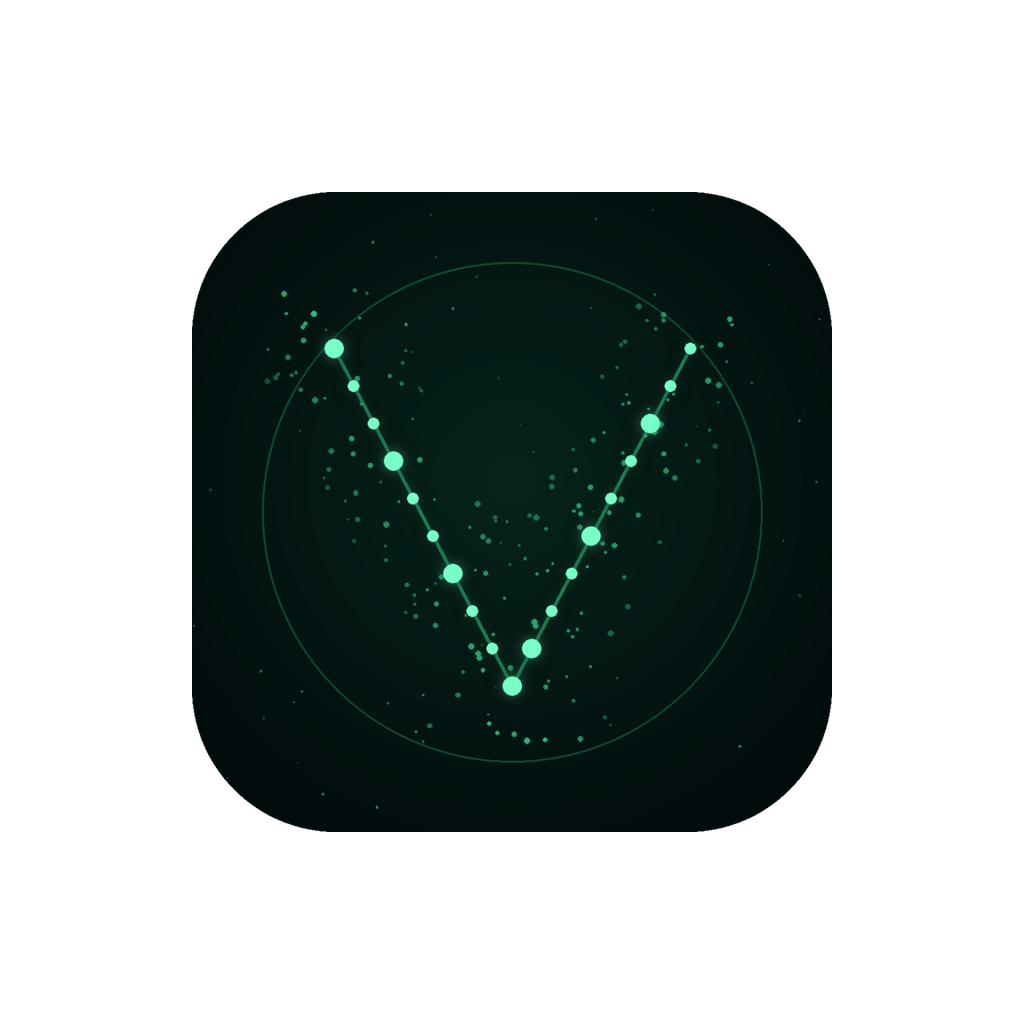
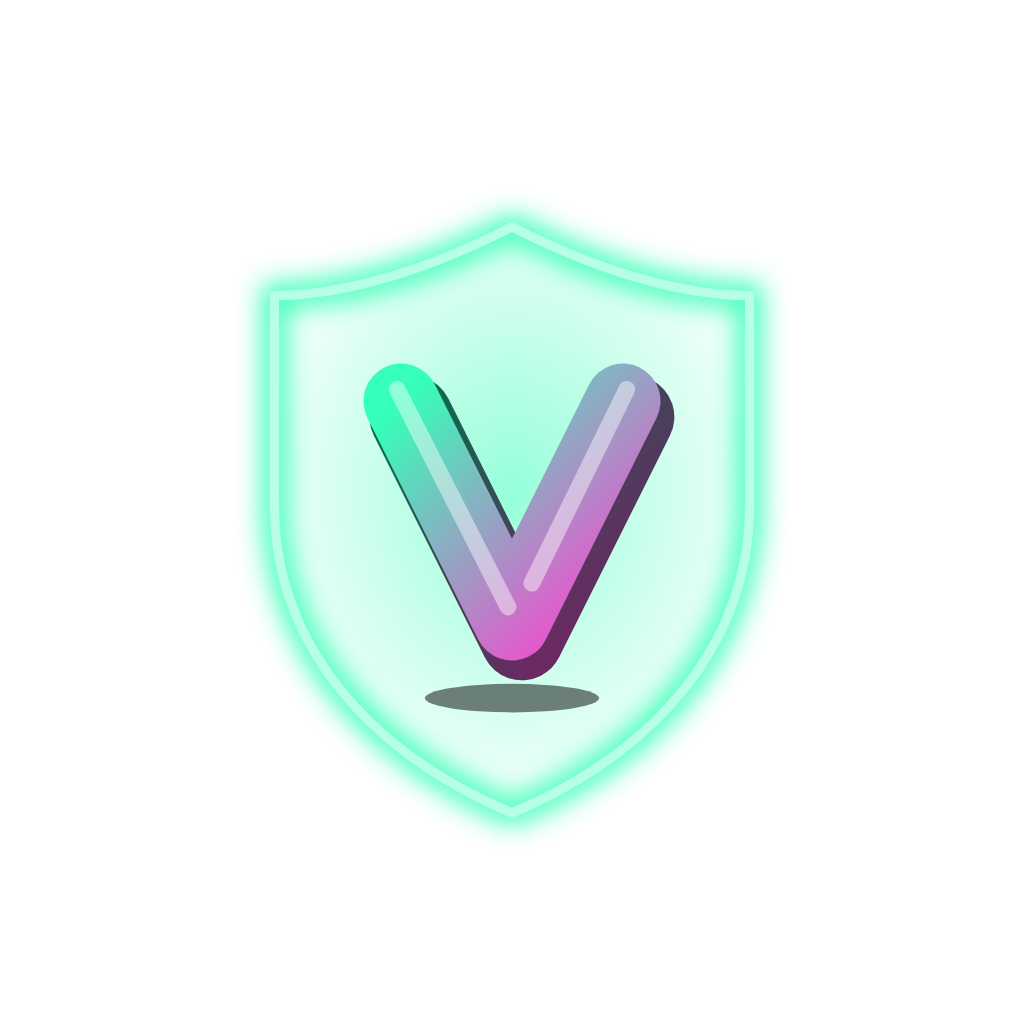
Vindex: ícone com V 3D e escudo de luz (app e topo iguais)
Claude-Session: https://claude.ai/code/session_01VdYvMQanQ6NP1Q1LpvEuDQ

diff --git a/app/src/logo.tsx b/app/src/logo.tsx
@@ -1,14 +1,14 @@
 import { useId } from "react";
 
 /**
- * O V do Vindex em 3D, como o orbe da Vênus: um tubo com luz e sombra, brilho atrás e uma pulsação lenta, como se estivesse vivo.
+ * O V do Vindex em 3D com um escudo de luz por trás (o mesmo desenho do ícone do app), como o orbe da Vênus: um tubo com luz e sombra, brilho atrás e uma pulsação lenta, como se estivesse vivo.
  * Acompanha a cor do app (--color-neon e --color-magenta). Quem pede menos movimento no aparelho recebe o V parado.
  */
 export function LogoVivo({ tam = 40, className = "" }: { tam?: number; className?: string }) {
   const id = useId().replace(/:/g, "");
   return (
-    <span className={`logo-vivo inline-block flex-none ${className}`} style={{ width: tam, height: tam }} role="img" aria-label="Vindex">
-      <svg viewBox="0 0 100 100" width={tam} height={tam} overflow="visible">
+    <span className={`logo-vivo inline-block flex-none ${className}`} style={{ width: tam * 124 / 152, height: tam }} role="img" aria-label="Vindex">
+      <svg viewBox="-12 -26 124 152" width={tam * 124 / 152} height={tam} overflow="visible">
         <defs>
           <linearGradient id={`f${id}`} x1="0" y1="0" x2="1" y2="1">
             <stop offset="0" stopColor="var(--color-neon)" />
@@ -23,7 +23,12 @@ export function LogoVivo({ tam = 40, className = "" }: { tam?: number; className
             <stop offset="1" stopColor="var(--color-neon)" stopOpacity="0" />
           </radialGradient>
         </defs>
-        <circle className="logo-vivo-brilho" cx="50" cy="48" r="50" fill={`url(#g${id})`} />
+        <circle className="logo-vivo-brilho" cx="50" cy="50" r="62" fill={`url(#g${id})`} />
+        {/* escudo de luz por trás do V: remete a proteção */}
+        <g fill="none" strokeLinejoin="round">
+          <path d="M50.0 -24.0 C74.7 -11.3 95.3 -6.7 110.0 -6.7 V46.0 C110.0 82.7 84.7 109.3 50.0 124.0 C15.3 109.3 -10.0 82.7 -10.0 46.0 V-6.7 C4.7 -6.7 25.3 -11.3 50.0 -24.0Z" stroke="var(--color-neon)" strokeWidth="6" opacity=".7" style={{ filter: "blur(2.4px)" }} />
+          <path d="M50.0 -24.0 C74.7 -11.3 95.3 -6.7 110.0 -6.7 V46.0 C110.0 82.7 84.7 109.3 50.0 124.0 C15.3 109.3 -10.0 82.7 -10.0 46.0 V-6.7 C4.7 -6.7 25.3 -11.3 50.0 -24.0Z" stroke="color-mix(in srgb, var(--color-neon) 40%, #fff)" strokeWidth="2.4" />
+        </g>
         <ellipse cx="50" cy="94" rx="20" ry="3.6" fill="#000" opacity=".55" />
         <g fill="none" strokeLinecap="round" strokeLinejoin="round">
           <path d="M22 20 50 76 78 20" stroke={`url(#s${id})`} strokeWidth="21" transform="translate(2.5 4)" />
